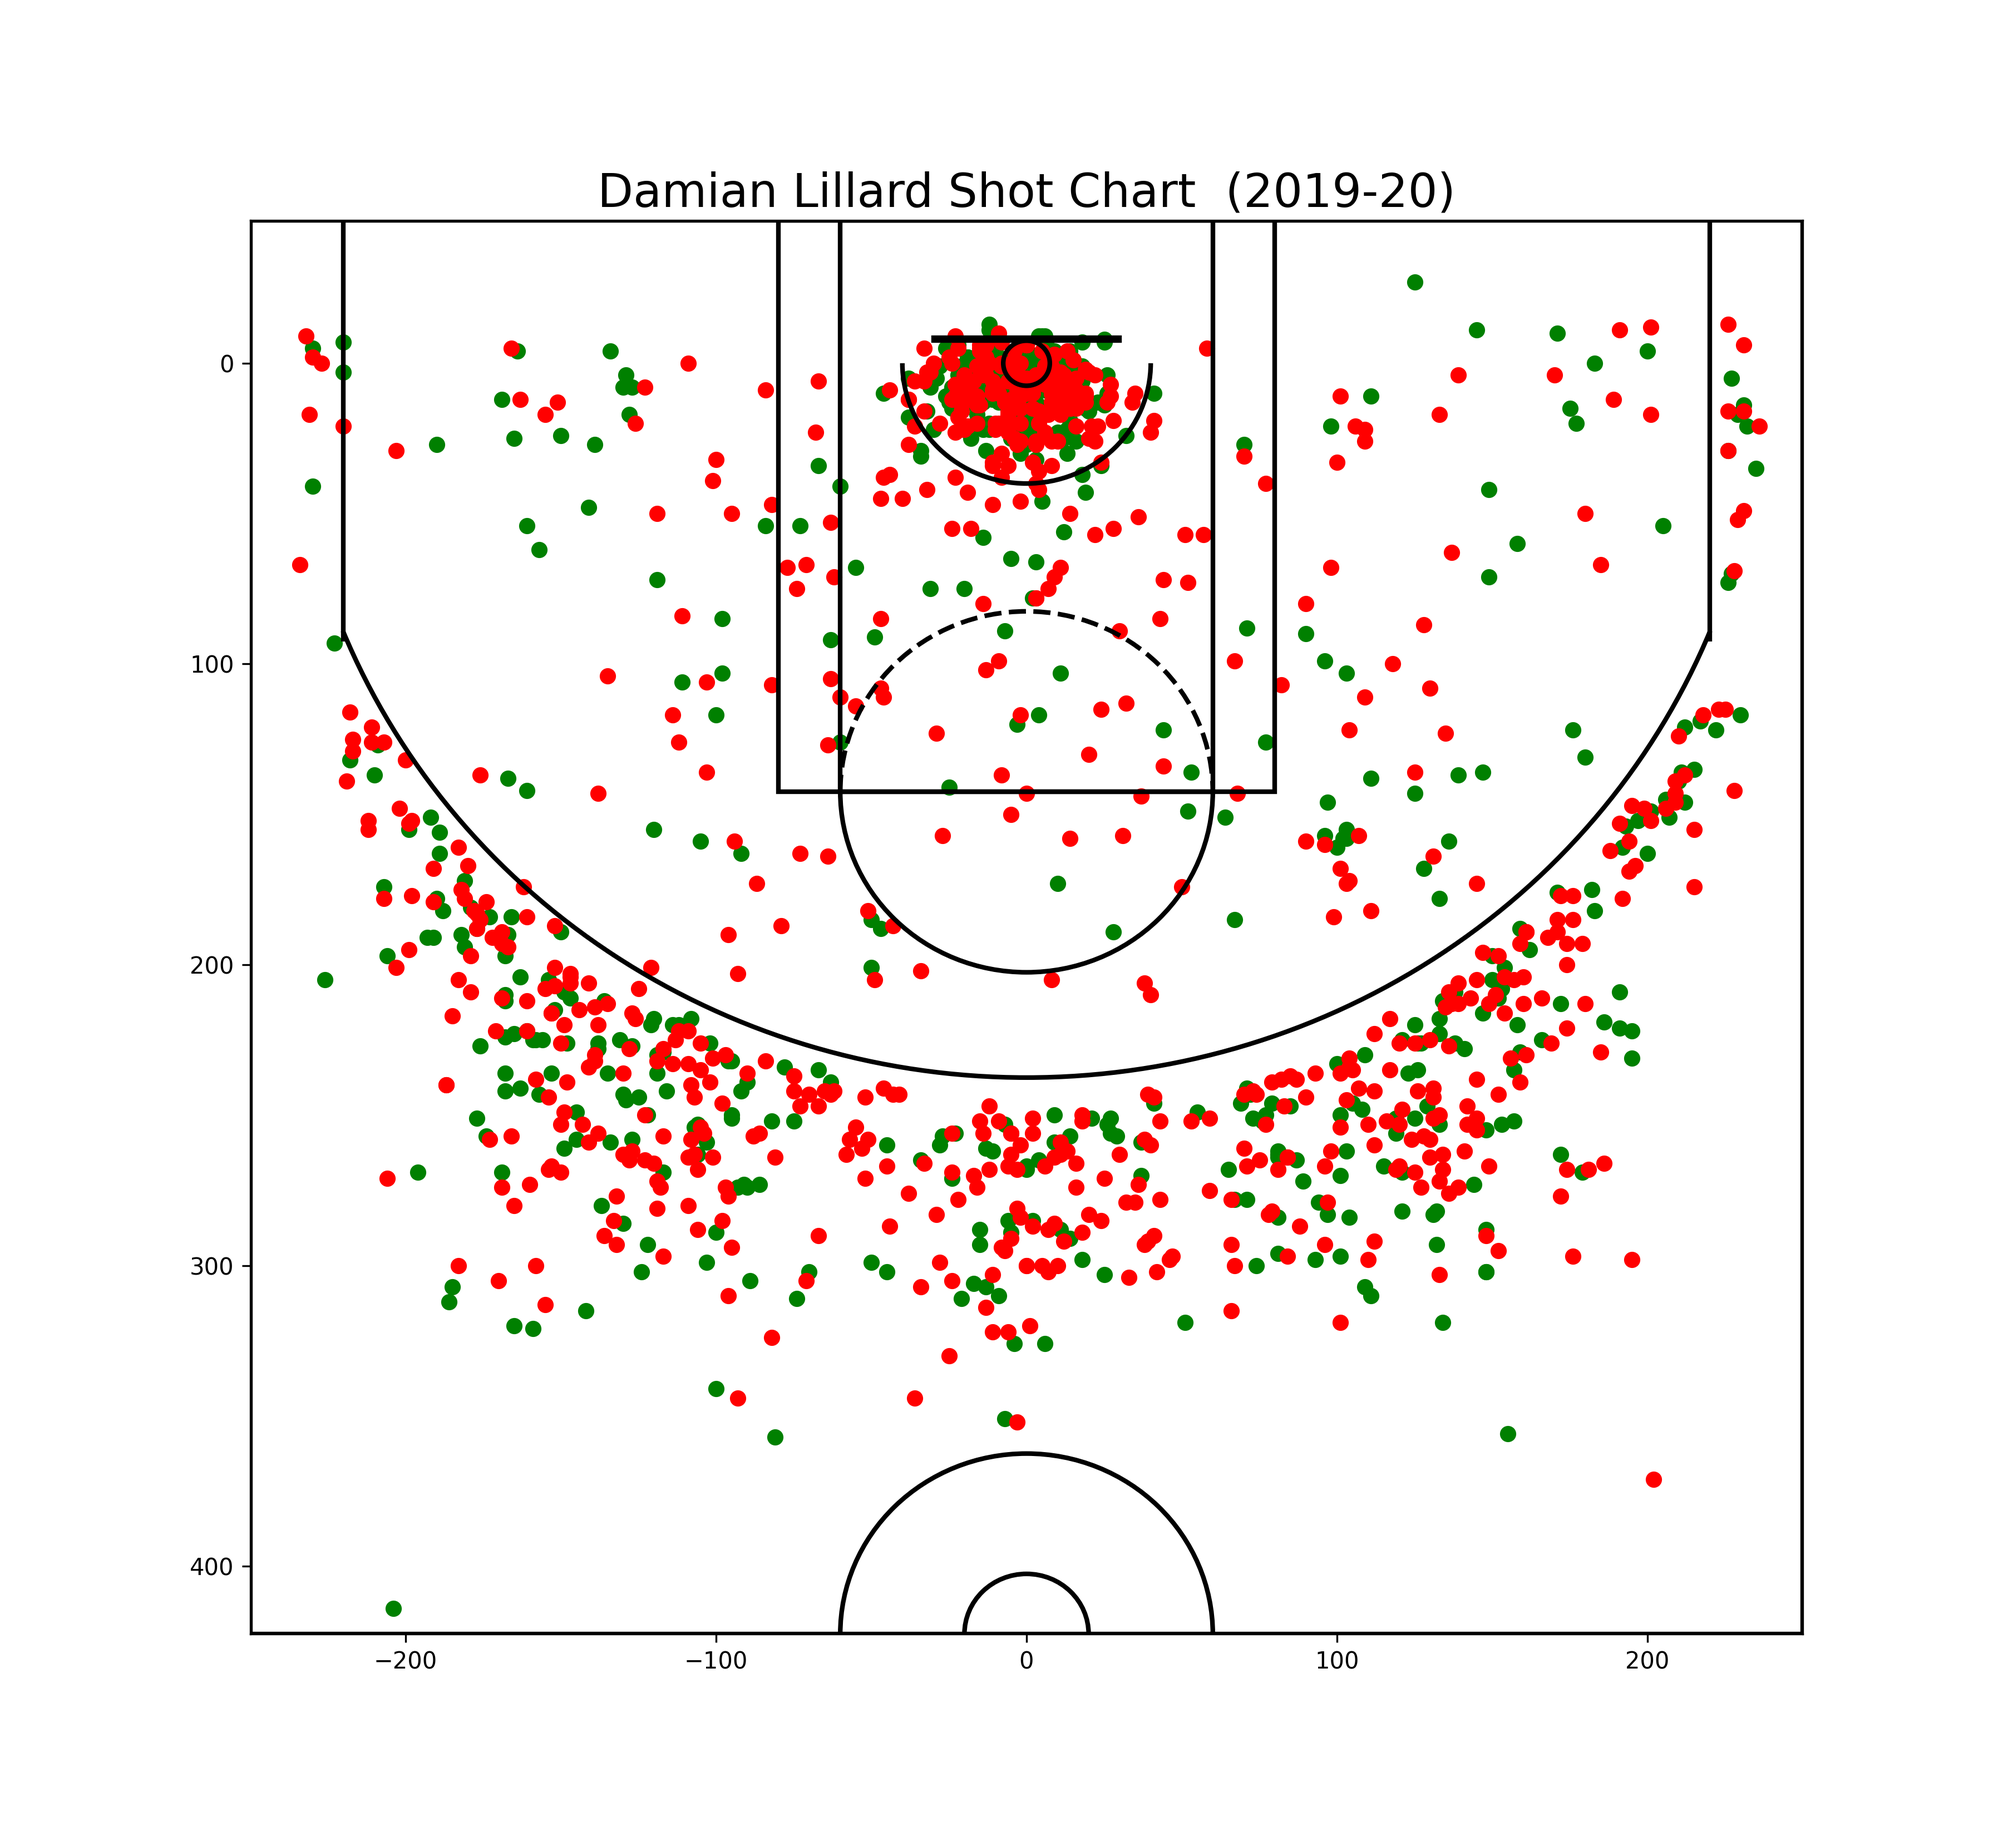
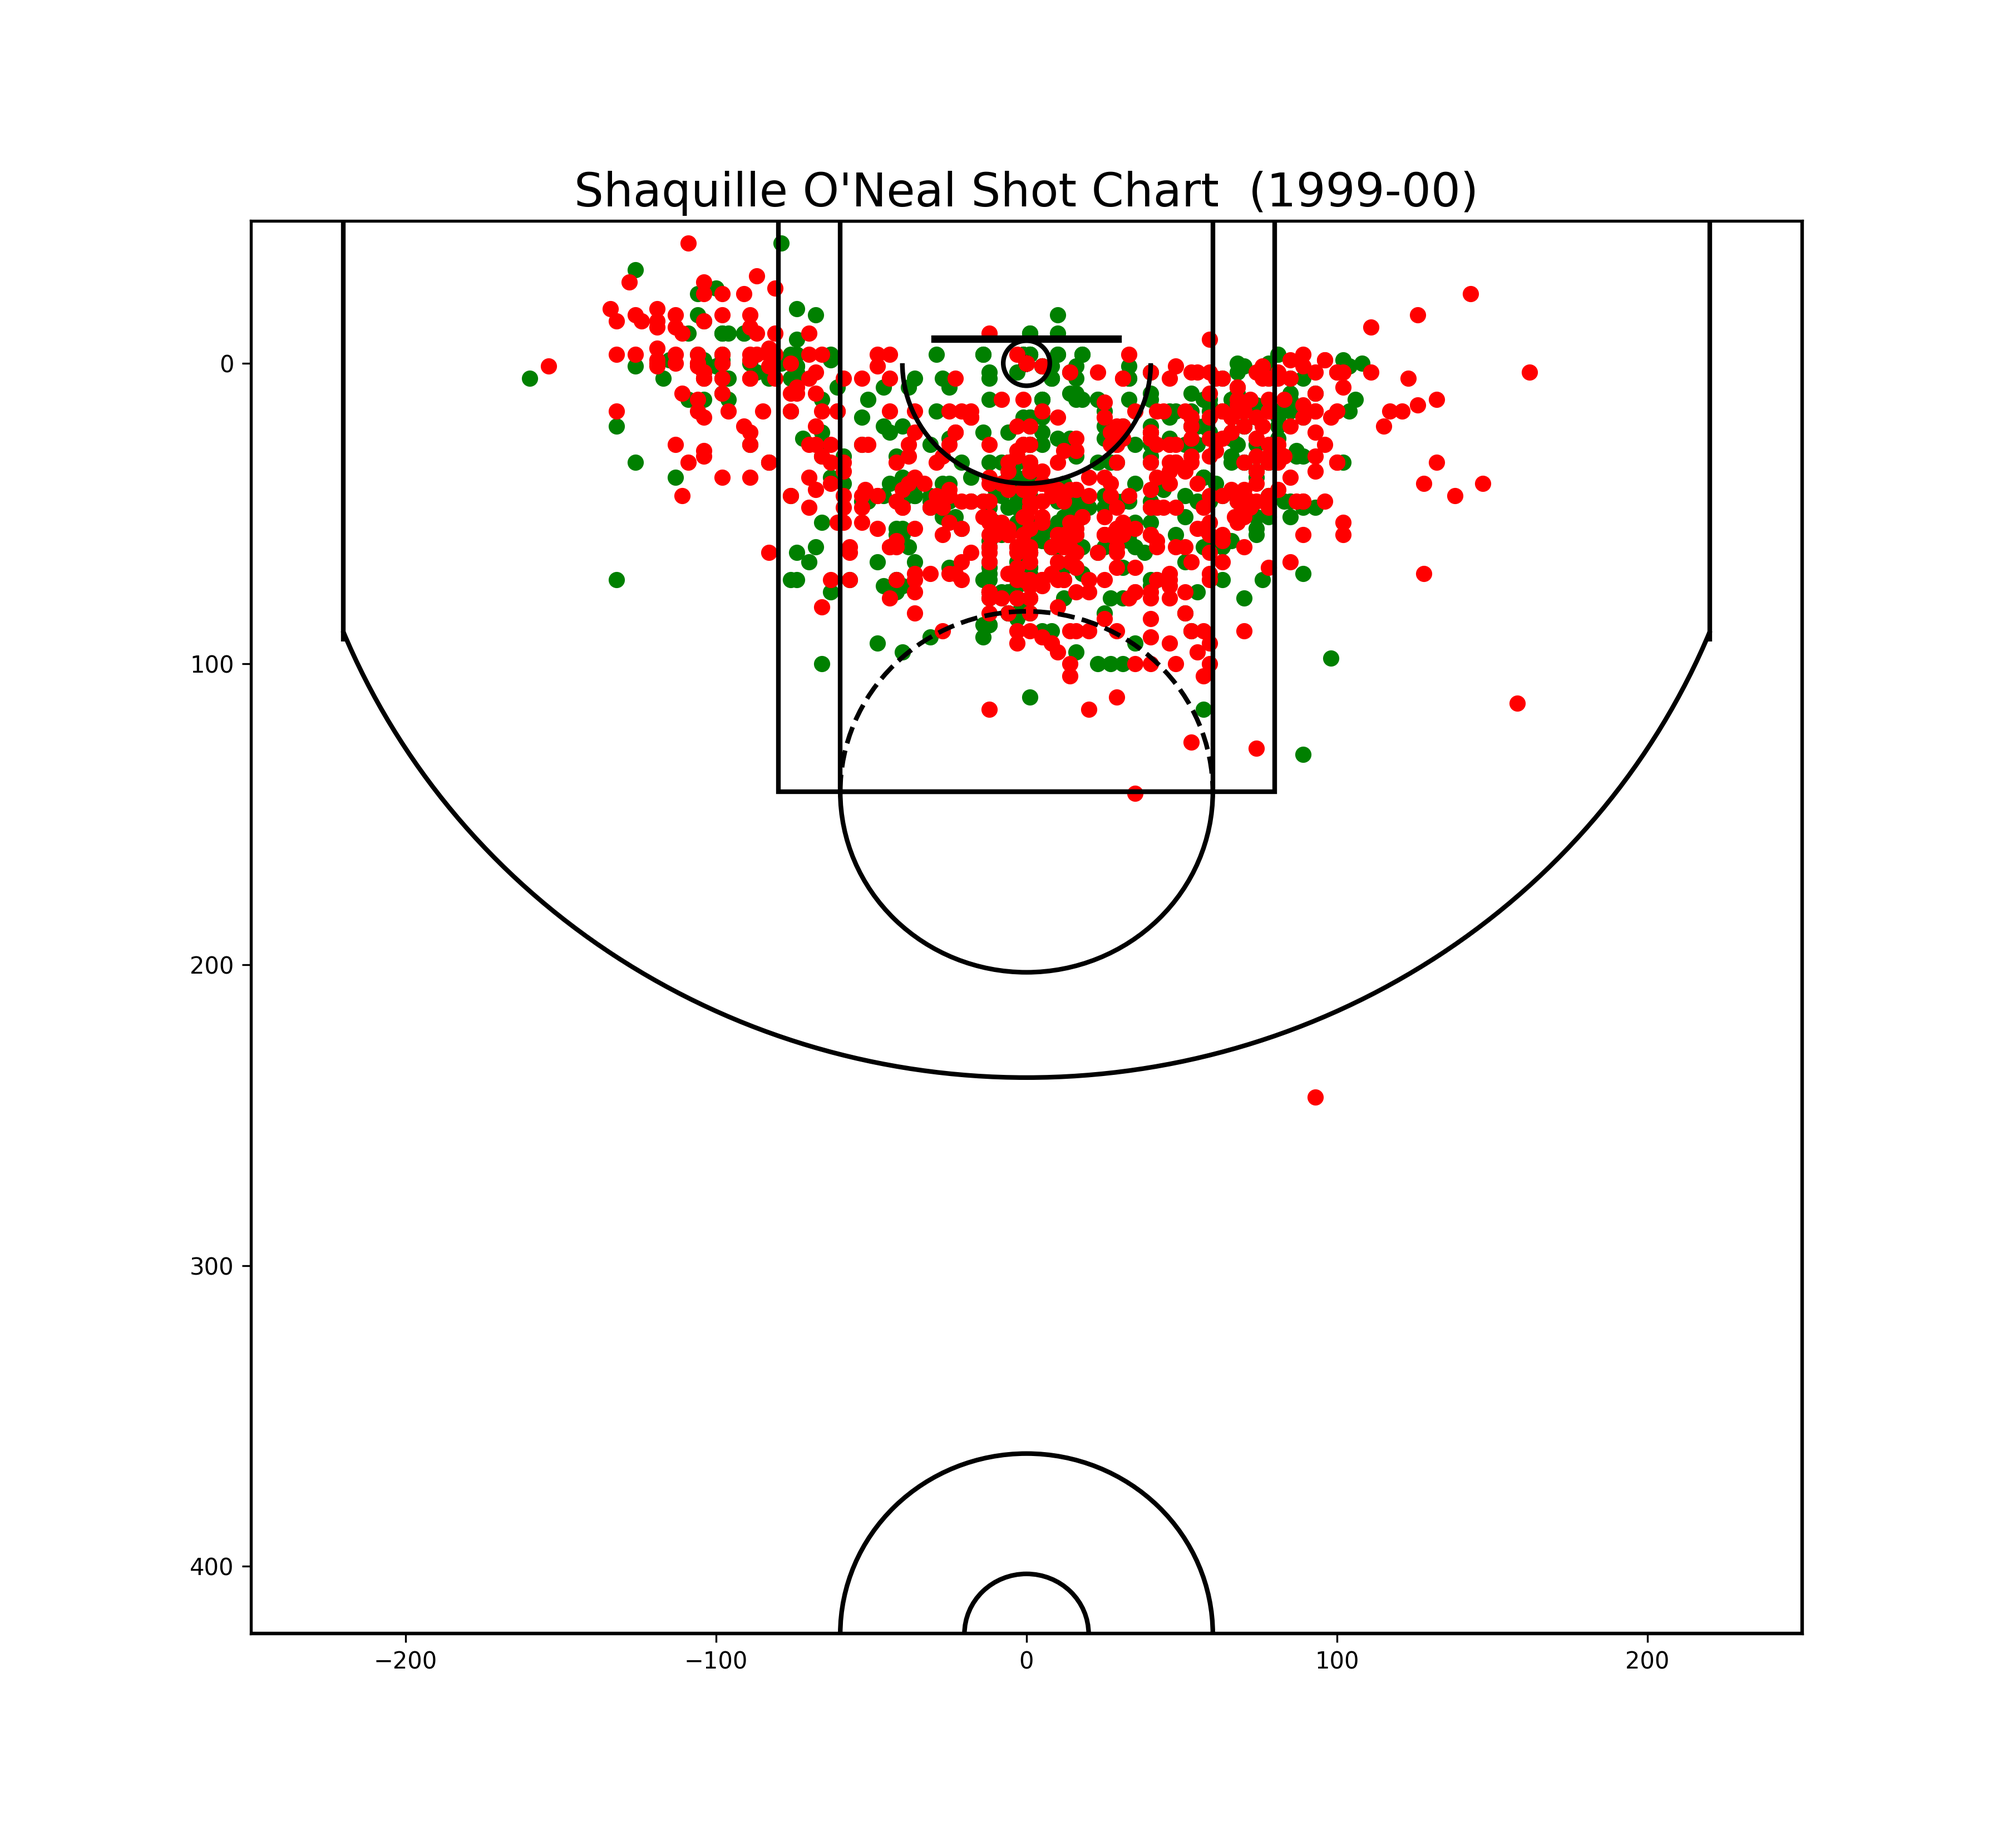
shotchart更新

diff --git a/create_jum.py b/create_jum.py
@@ -13,10 +13,8 @@ data = endpoints.leagueleaders.LeagueLeaders()
 # Our "data" variable now has built in functions such as creating a dataframe for our data
 df = data.league_leaders.get_data_frame()
 nba_df = pd.DataFrame(df)
-graph = sns.pairplot(nba_df)
-graph.savefig("pairplot.png")
-plt.show()
+nba_df_X = nba_df.drop("PLAYER_ID",axis=1)
 # normalize each stats
 sscaler = preprocessing.StandardScaler()
-for x in nba_df.columns:
+for x in nba_df_X.columns:
     sscaler.fit(x)

diff --git a/show_shot_chart.py b/show_shot_chart.py
@@ -5,10 +5,10 @@ import drawcourt
 # Path: show_shot_chart.py
 # Show shot chart of specific player
 
-# Damian Lillard
-player_id = 203081
+# Shaquille O'Neal
+player_id = 406
 # 2019-20 season
-Season = "2019-20"
+Season = "1999-00"
 # All games
 n_games = 0
 # All teams
